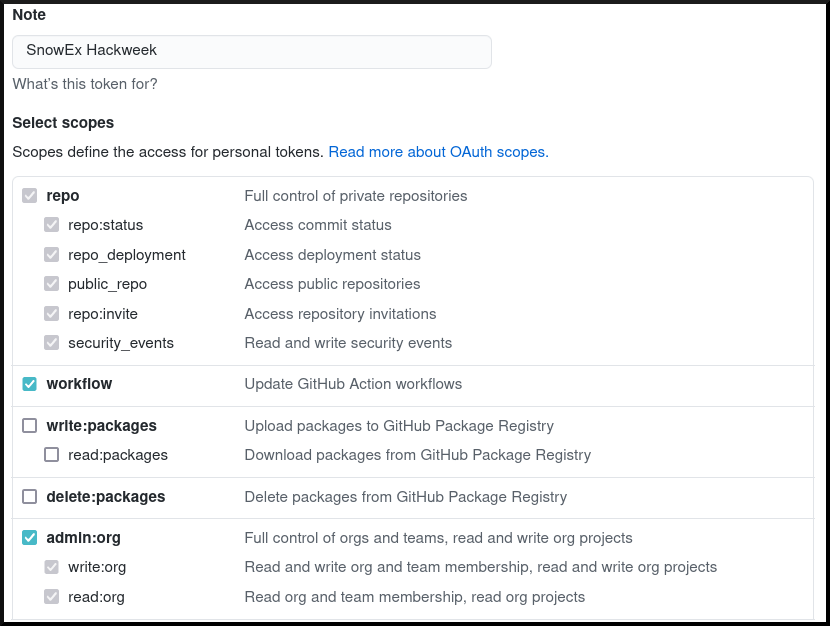
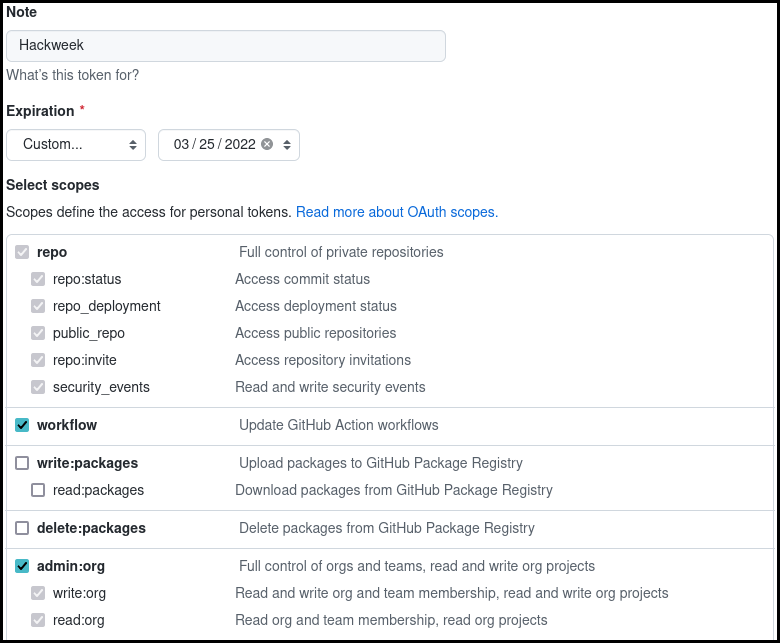
Preliminary - Update git; add setup check repo URL.
Also update the screenshot to the latest version.

Changed region(s): [[0.0, 0.0, 1.0, 1.0]]

diff --git a/book/preliminary/git.md b/book/preliminary/git.md
@@ -45,7 +45,7 @@ git config --global credential.helper store
 
 The third line is a configuration option that needs to be done with a first time
 setup. It specifies the strategy on how git will apply changes you pull from
-a remote git repository. 
+a remote git repository.
 More on strategies is [described here.](http://git-scm.com/book/en/v2/Git-Branching-Rebasing)
 
 The last line of the config will store your GitHub credentials and will save
@@ -69,12 +69,13 @@ credential.helper=store
 ### 4. Authenticating with GitHub
 In order to interact with GitHub via the `git` command inside the JupyterHub environment,
 you need to set up an authentication method. One way to do this is to use your GitHub password.
-However, a better, more secure practice is to use a GitHub Personal Access Token, which offers 
-more customizable permissions and can be revoked without affecting your main GitHub user 
+However, a better, more secure practice is to use a GitHub Personal Access Token, which offers
+more customizable permissions and can be revoked without affecting your main GitHub user
 account password.
 
 Take a moment to work through the instructions on the [GitHub personal access tokens](https://docs.github.com/en/github/authenticating-to-github/keeping-your-account-and-data-secure/creating-a-personal-access-token) page. For this hackweek, you need to check the **repo**, **admin:org**, and **workflow** scope.
 
+Screenshot from github.com setting up the token:
 ![github-token](../img/github-token.png)
 
 Once you have created your token, be sure to save it on your computer in case
@@ -88,7 +89,7 @@ terminal on the JupyterHub. where you will be prompted for your GitHub username
 and the token.
 
 ```shell
-git clone {{github_org_url}}.github_setup_check.git
+git clone https://github.com/ICESAT-2HackWeek/github_setup_check.git
 ```
 
 Since this is the first time you are interacting from the JupyterHub with GitHub,
